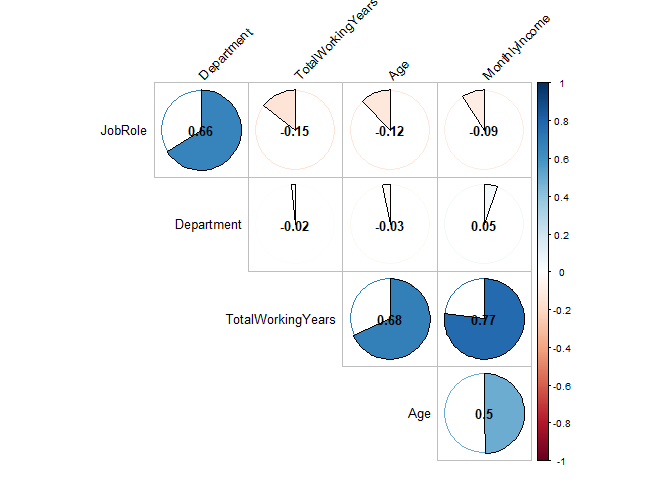
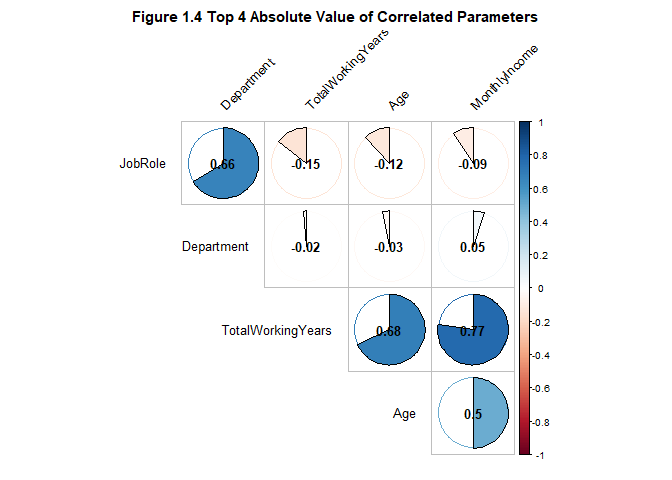
Adjusted bullet points v0.14

diff --git a/CaseStudy2.md b/CaseStudy2.md
@@ -195,7 +195,7 @@ corrplot(as.matrix(Attcor[SA10,SA10]), method="pie",
          addCoef.col = "black",
          tl.col="black", tl.srt=45,
          sig.level = 0.05, insig = "blank", 
-         title="Figure 1.2 Top 10 Postively Correlated Parameters", mar=c(0,0,2,0), tl.offset = 1, 
+         title="Figure 1.2 Top 9 Postively Correlated Parameters", mar=c(0,0,2,0), tl.offset = 1, 
          diag=FALSE)
 ```
 
@@ -249,7 +249,7 @@ knitr::kable(head(SortAbstAtt,10))
 |   -0.1371449| StockOptionLevel     |  0.1371449|
 
 ``` r
-#Display graphic with top 10 Absolute Correlated Parameters
+#Display graphic with top 9 Absolute Correlated Parameters
 par(cex=.8)
 SAA10<-c(head(SortAbstAtt$Parameter,10))
 corrplot(as.matrix(Attcor[SAA10,SAA10]), method="pie", 
@@ -257,14 +257,14 @@ corrplot(as.matrix(Attcor[SAA10,SAA10]), method="pie",
          addCoef.col = "black",
          tl.col="black", tl.srt=45,
          sig.level = 0.05, insig = "blank", 
-         title="Figure 1.3 Top 10 Highly Correlated Parameters in absolute values", mar=c(0,0,2,0), tl.offset = 1, 
+         title="Figure 1.3 Top 9 Highly Correlated Parameters in absolute values", mar=c(0,0,2,0), tl.offset = 1, 
          diag=FALSE)
 ```
 
 ![](CaseStudy2_files/figure-markdown_github/unnamed-chunk-7-1.png)
 
 ``` r
-#Further look at top 10 absolute correlated parameters with Attrition
+#Further look at top 9 absolute correlated parameters with Attrition
 par(mfrow=c(3,3), las=2)
 plot(Attrition~OverTime, data=df, main="Overtime", xlab="", ylab="Attrition")
 plot(Attrition~TotalWorkingYears, data=df, main="Total Working Years", xlab="", ylab="")
@@ -322,13 +322,14 @@ knitr::kable(head(SortJobRole))
 |   -0.0854574| JobLevel          |  0.0854574|
 
 ``` r
-#Display graphic with top 4 Absolute Correlated Parameters
+#Display graphic with top 4 Absolute Value of Correlated Parameters
 par(cex=.8)
 SJR5<-c(head(SortJobRole$Parameter,5))
 corrplot(as.matrix(Attcor[SJR5,SJR5]), method="pie", 
          type="upper", 
          addCoef.col = "black",
          tl.col="black", tl.srt=45,
+         title="Figure 1.4 Top 4 Absolute Value of Correlated Parameters", mar=c(0,0,2,0), tl.offset = 1, 
          sig.level = 0.05, insig = "blank", 
          diag=FALSE)
 ```
